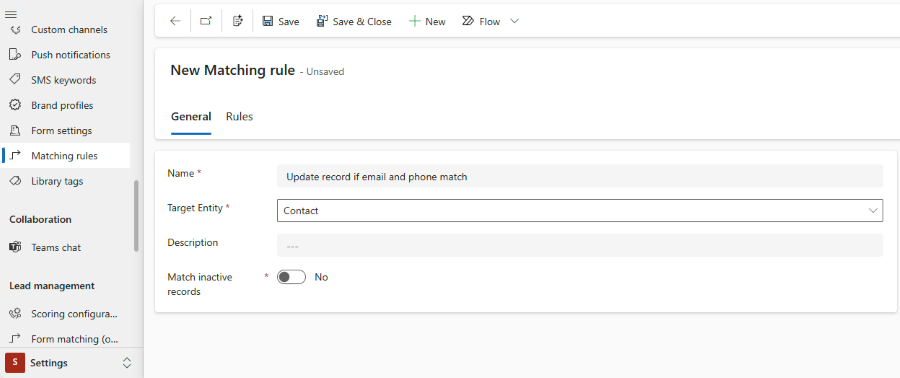
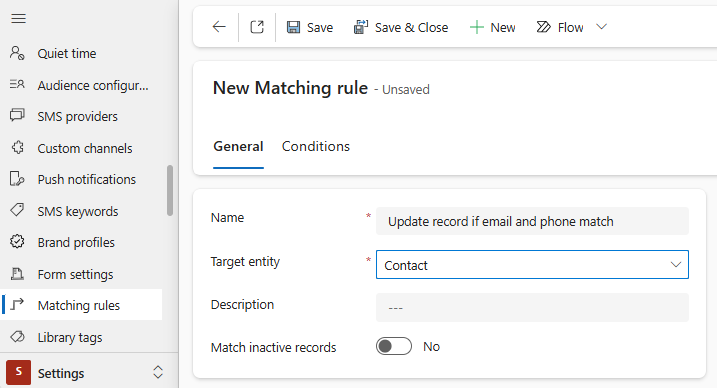
Replaced Rules with Conditions

diff --git a/ci-docs/journeys/real-time-marketing-matching-rules.md b/ci-docs/journeys/real-time-marketing-matching-rules.md
@@ -26,16 +26,16 @@ To create a new matching rule:
 1. Go to **Settings** > **Matching rules**, and select **New** in the top ribbon.
 1. Enter a name for your new rule. This name is used to select the rule when creating new forms or journeys.
 1. Select the target entity, which can be a lead or contact.
-1. Select the **Save** button. The matching rule is created, and you access it in the **Rules** tab.
+1. Select the **Save** button. The matching rule is created, and you access it in the **Conditions** tab.
 
 :::image type="content" source="media/real-time-marketing-create-matching-rule.png" alt-text="Create a new matching rule" lightbox="media/real-time-marketing-create-matching-rule.png":::
 
  > [!TIP]
  > The **Match inactive records** toggle determines if inactive records are used for matching. Matching an inactive record doesn't reactivate the record. Inactive records have the same priority for matching as active ones. It's recommended to keep this toggle Off.
 
-Define the details of your matching rule in the **Rules** tab.
+Define the details of your matching rule in the **Conditions** tab.
 
-### Define matching rules
+### Define matching conditions
 
 The matching rule builder consists of three parts:
 
@@ -43,9 +43,9 @@ The matching rule builder consists of three parts:
 - **Main condition**: The main condition is always executed first to gather a group of the most relevant records. The main rule is a direct query to database, so the degree of match is always *Exact* (it isn't possible to set up fuzzy matching). You can add multiple attributes to the main condition. There's always an **OR** operator between the attributes of the condition.
 - **Additional conditions**: Additional conditions are executed on the group of records filtered out by the main condition. You can add multiple attributes to every additional condition. There's always an **OR** operator between the attributes of the rule. You can create multiple additional conditions. All conditions are linked by an **AND** operator. You can set the **Degree of match**, which defines if an exact match (100%) is required or what extent of fuzzy match is applied. The possible degrees of match are:
   - **Exact**: All characters must match.
-  - **High**: A few characters don't match.
-  - **Medium**: Some characters don't match.
-  - **Low**: Half of the characters don't match.
+  - **High**: Almost all characters must match.
+  - **Medium**: At least half of the characters must match.
+  - **Low**: At least 25 % of characters must match.
 - You can build complex matching rules by combining multiple conditions with various attributes.
 
 :::image type="content" source="media/real-time-marketing-define-matching-rule.png" alt-text="Define your matching rule" lightbox="media/real-time-marketing-define-matching-rule.png":::
